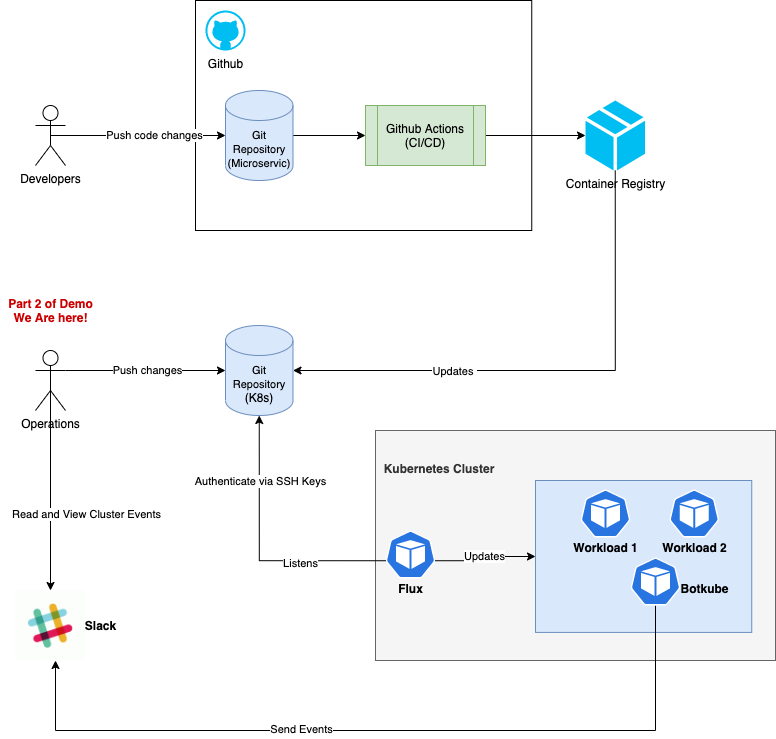
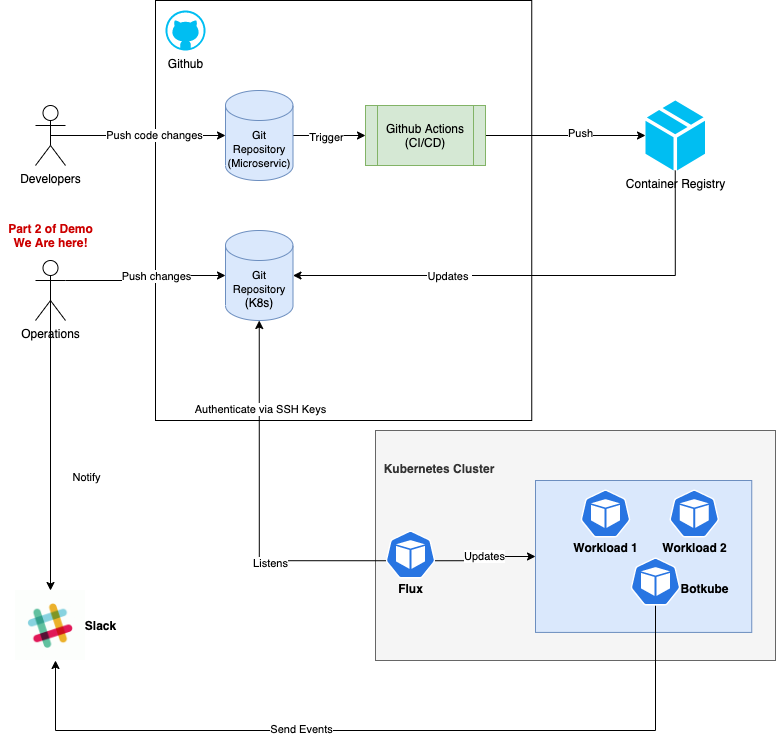
Update readme and diagram

diff --git a/README.md b/README.md
@@ -2,7 +2,7 @@
 
 Demonstration of GitOps with Flux and Botkube for alerting
 
-For the first part of this demo, please go to [Bluesky Sample ReactApp](https://github.com/robincher/bluesky-sample-react-app)
+For the first part of this demo, please go to [Bluesky Sample ReactApp](https://github.com/robincher/bluesky-react-sample-app)
 
 # Preparation
 
@@ -21,6 +21,7 @@ For the first part of this demo, please go to [Bluesky Sample ReactApp](https://
 
 1. Following the container image pushed, the gitops repository (right here) can be updated with the new container image reference.
 2. Flux will observe any changes to the bluesky-gitops-demo repository, and apply the corresponding updates to the workload or configurations running in the kubernetes cluster.
+3. Observe the changes to the cluster via Slack through Botkube notification
 
 ## Implementation
 
